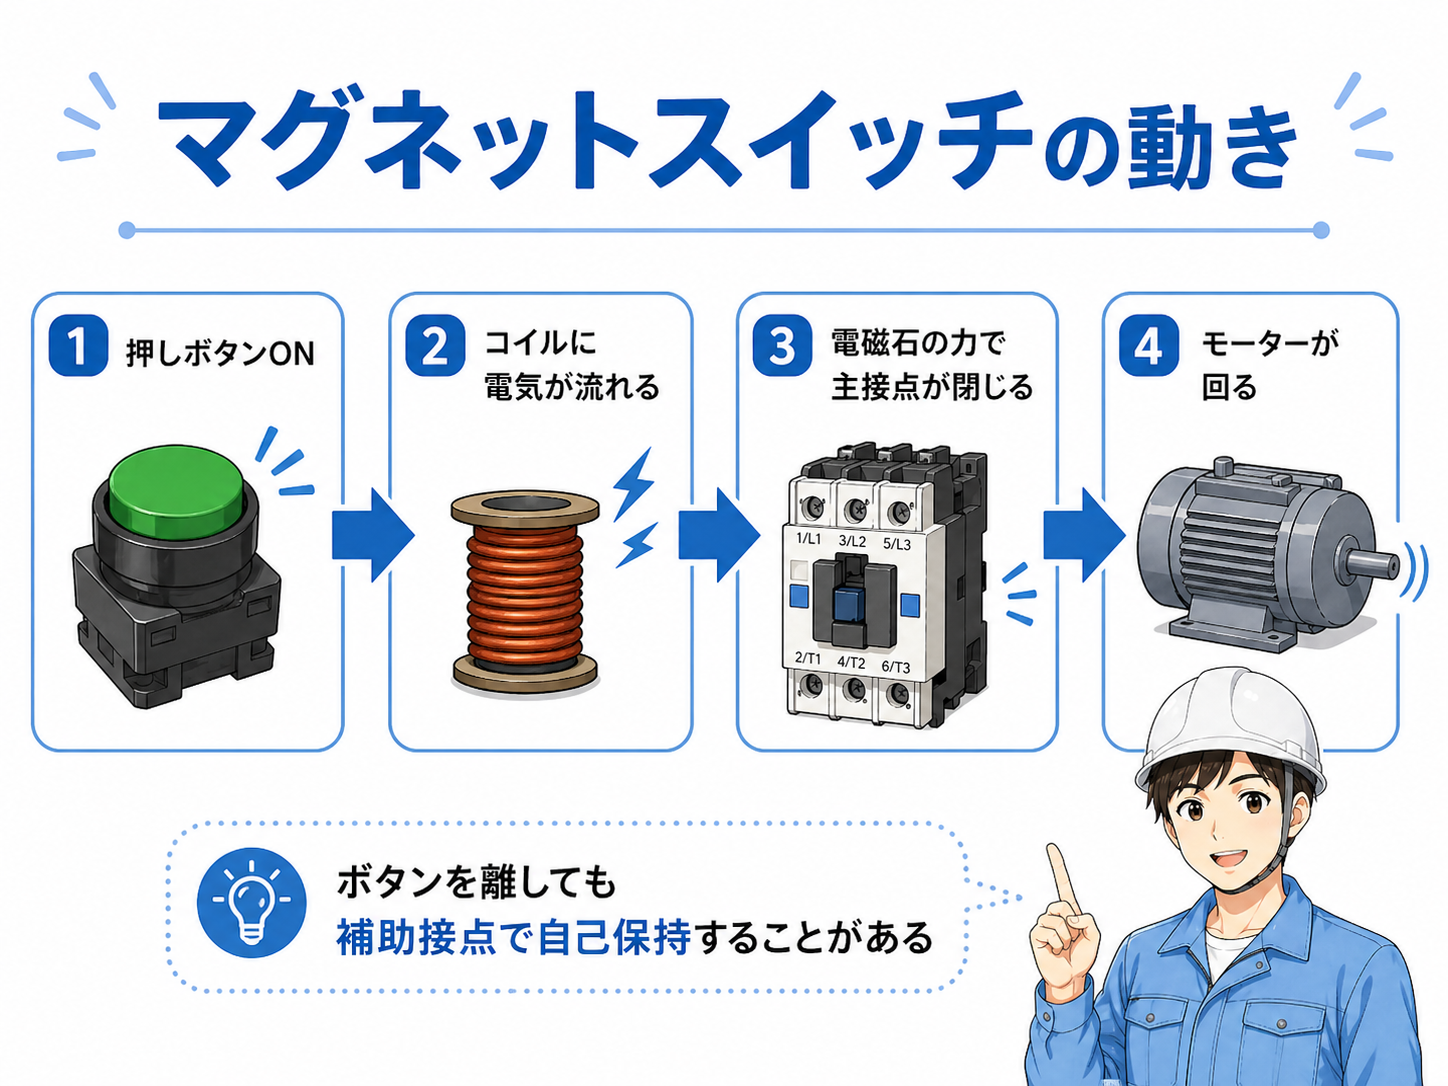
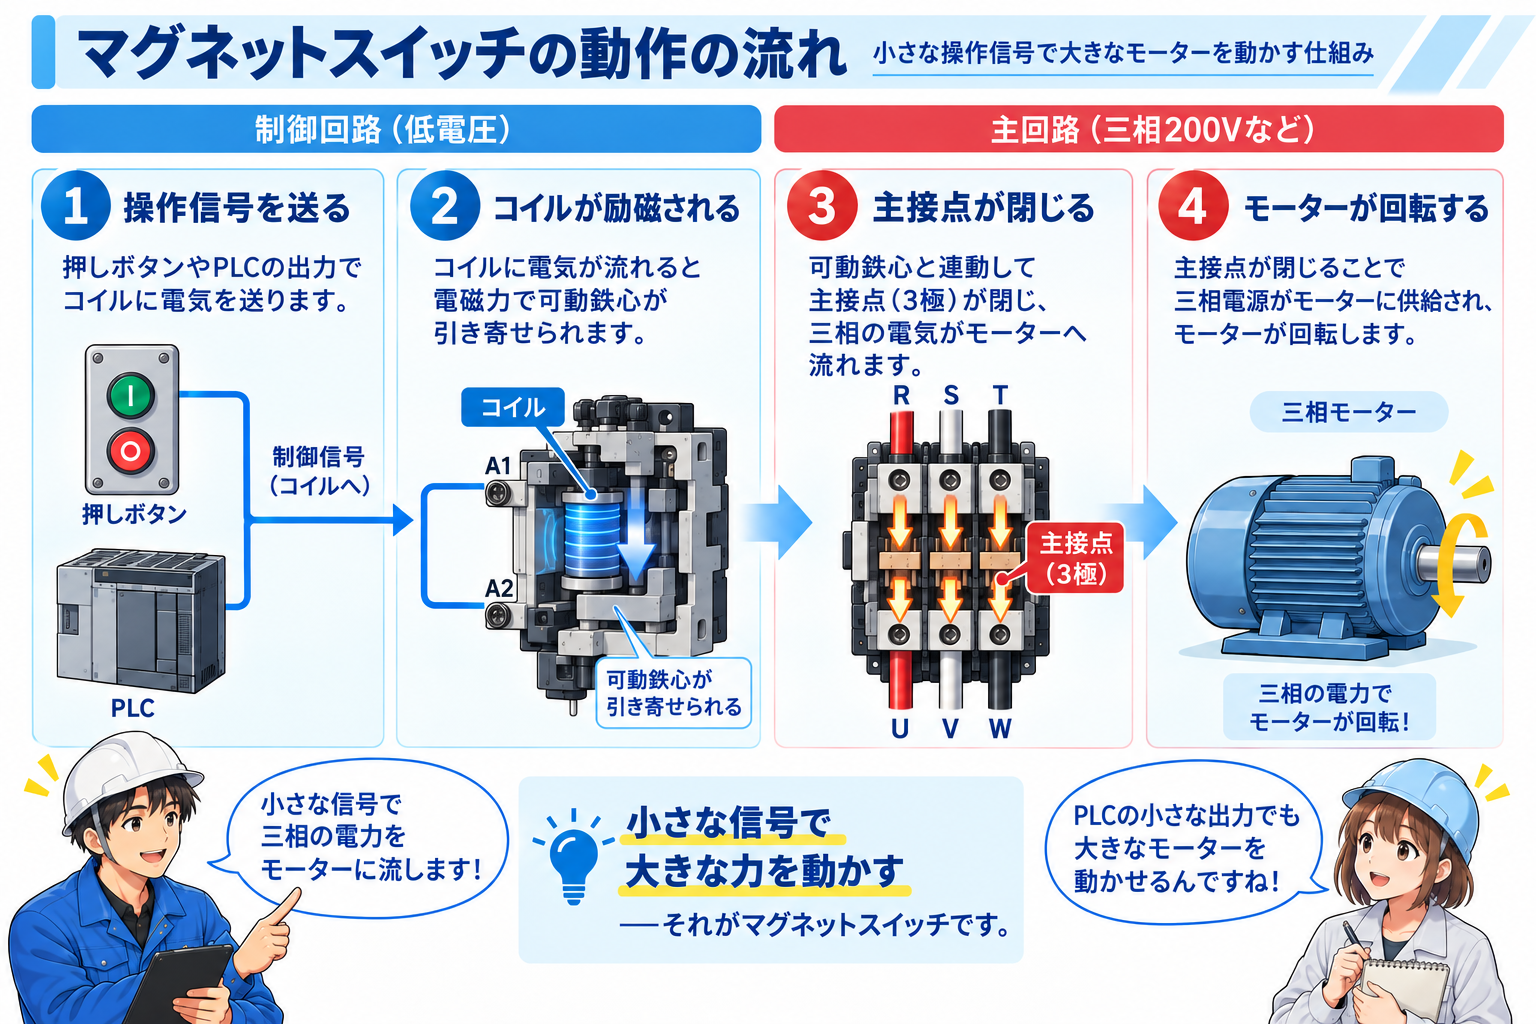
Publish magnetic switch article refresh
* chore: request verified OGP image transfer

* chore: transfer verified binary [binary-transfer-complete]

* chore: request verified hero image transfer

* chore: transfer verified binary [binary-transfer-complete]

* chore: request verified overview image transfer

* chore: transfer verified binary [binary-transfer-complete]

* chore: request verified operation-flow image transfer

* chore: transfer verified binary [binary-transfer-complete]

* chore: request verified coil-contact image transfer

* chore: transfer verified binary [binary-transfer-complete]

* Use adopted dedicated hero image

* Update magnetic switch hero CSS binding

* Preview shared article image lightbox

* Update magnetic switch shell baseline

* Update magnetic switch source inventory

* Temporary: build magnetic switch final integrated Preview

* chore: request verified overview image transfer

* chore: transfer verified binary [binary-transfer-complete]

* chore: request verified operation flow image transfer

* chore: transfer verified binary [binary-transfer-complete]

* chore: request verified coil contact image transfer

* chore: transfer verified binary [binary-transfer-complete]

* Refresh magnetic switch article images

* Trigger final integrated magnetic switch Preview

* Fix final Preview browser audit setup

* Fix final Preview audit module resolution

* Harden magnetic switch final Preview image audit

* Validate live production-equivalent magnetic switch Preview
[…]

diff --git a/articles/magnetic-switch-basic.html b/articles/magnetic-switch-basic.html
@@ -82,7 +82,7 @@
       border-radius:30px;
       background:
         linear-gradient(90deg, rgba(248,251,255,.98) 0%, rgba(248,251,255,.95) 34%, rgba(248,251,255,.76) 50%, rgba(248,251,255,.18) 72%, rgba(248,251,255,0) 100%),
-        url("../assets/images/magnetic-switch-basic/magnetic-switch-overview.png") right center / auto 100% no-repeat,
+        url("../assets/images/magnetic-switch-basic/magnetic-switch-basic-hero.png") right center / auto 100% no-repeat,
         #f8fbff;
       box-shadow:var(--shadow);
       min-height:400px;
@@ -530,7 +530,7 @@
         border-radius:24px;
         background:
           linear-gradient(180deg, rgba(248,251,255,.98) 0%, rgba(248,251,255,.94) 52%, rgba(248,251,255,.46) 100%),
-          url("../assets/images/magnetic-switch-basic/magnetic-switch-overview.png") right bottom / 155% auto no-repeat,
+          url("../assets/images/magnetic-switch-basic/magnetic-switch-basic-hero.png") right bottom / 155% auto no-repeat,
           #f8fbff;
       }
       .article-hero-copy{
